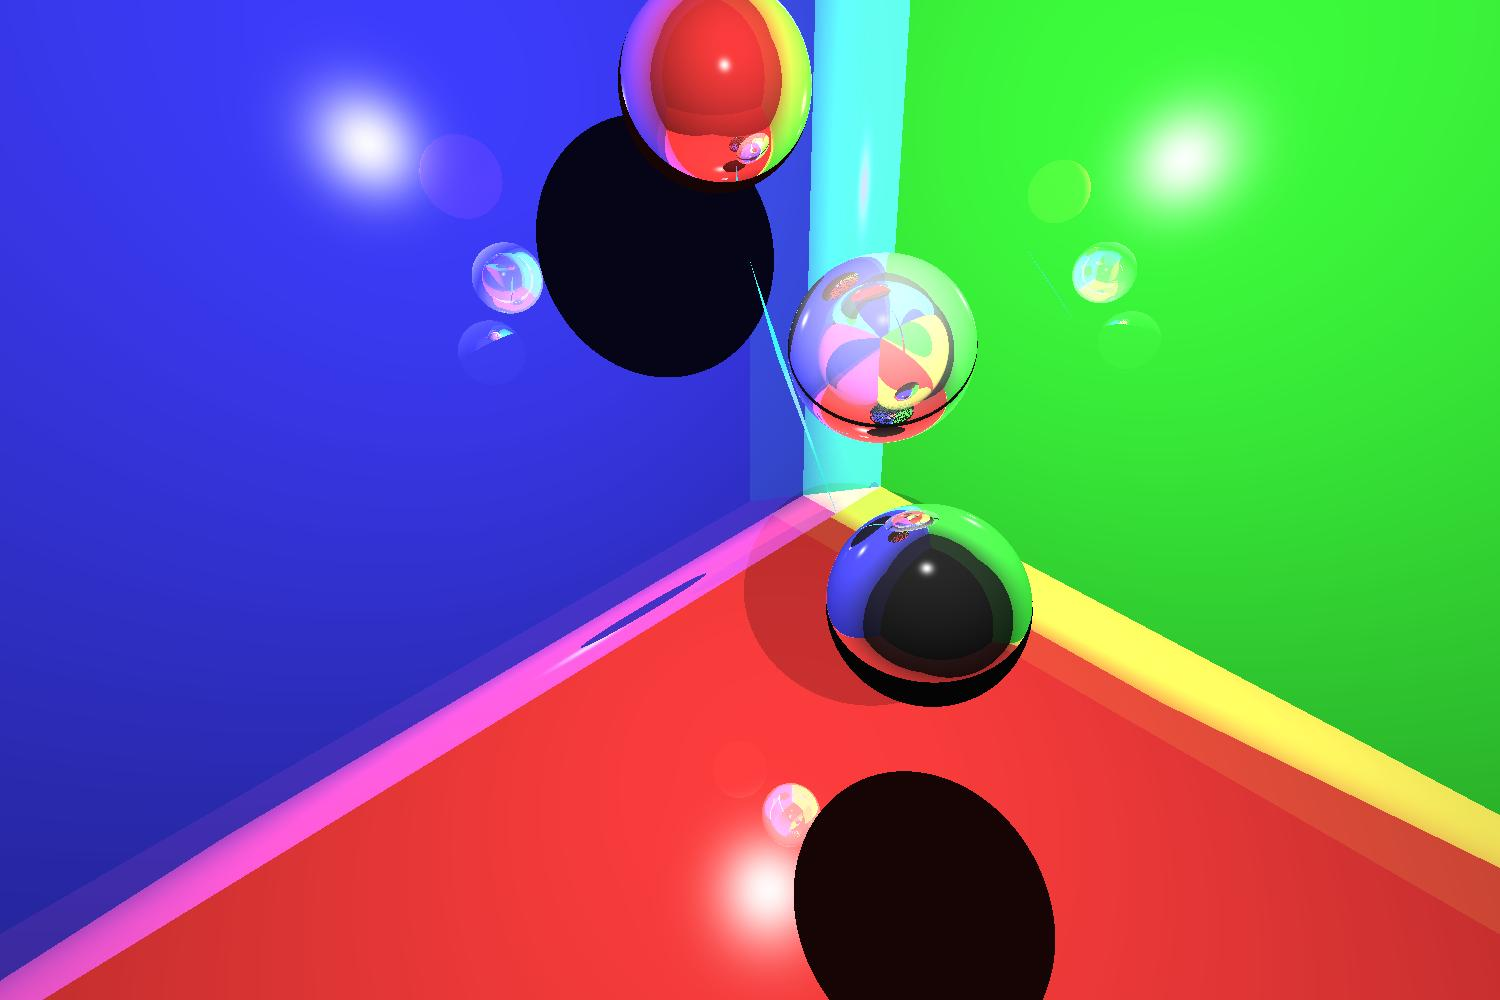
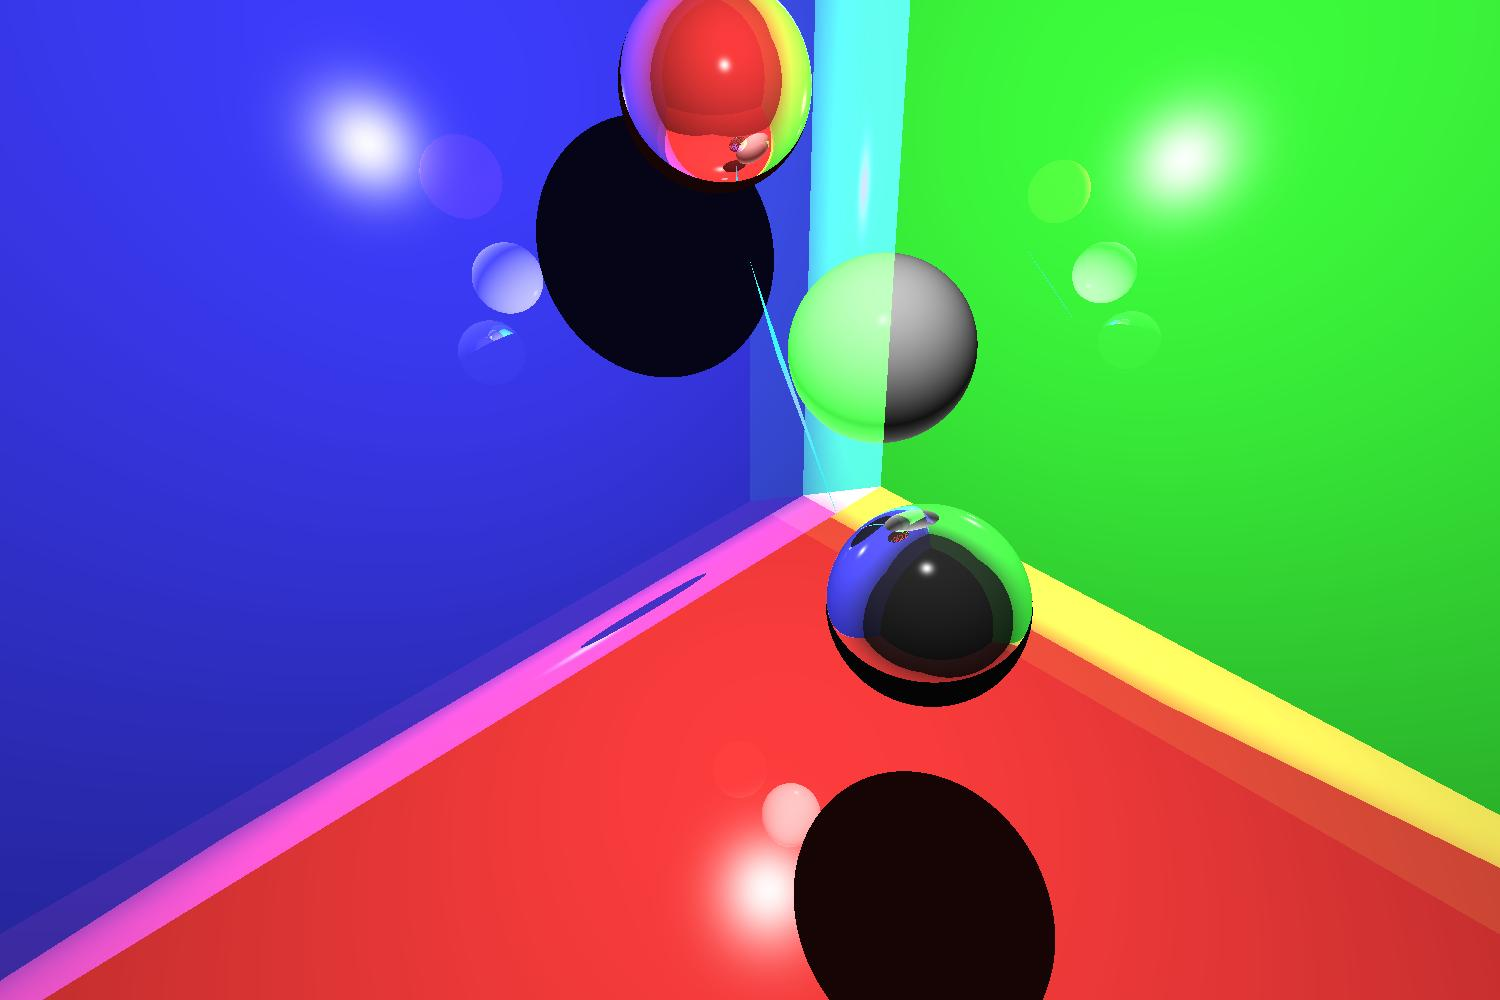
terminado la refraccion

diff --git a/src/trazadorrayos/OperacionesEscena.java b/src/trazadorrayos/OperacionesEscena.java
@@ -79,7 +79,8 @@ public class OperacionesEscena {
 			Point4d punto = Interseccion.intersecta(rayo, figura);
 
 			double reflec = figura.getIndiceReflectividad();
-			double refrac = figura.getIndiceRefraccion();
+                        double refrac = 0;
+                        if(figura.getIndiceRefraccion()!=0) refrac = 1/figura.getIndiceRefraccion();//suponemos que el exterior es 1
 
 			/*
 			 * Ahora se calcula la direccion del angulo refractado y del angulo
@@ -111,20 +112,23 @@ public class OperacionesEscena {
 			// ahora calculas el angulo reflejado
 			// T=(Iref*(normal*Rayo)-Raiz(1-Iref²(1-(normal*rayo)²)))
 			// *normal-Iref*rayo
-			double auxR = refrac
-					* (normal.dot(rayo.getDireccion()))
+                        Vector4d direccionRayo=new Vector4d(rayo.getDireccion());
+                        direccionRayo.negate();
+                       
+			double auxR = (refrac
+					* (normal.dot(direccionRayo)))
 					- Math.sqrt(1
-							- refrac
+							- (refrac
 							* refrac
-							* (1 - normal.dot(rayo.getDireccion())
-									* normal.dot(rayo.getDireccion())));
+							* (1 - (normal.dot(direccionRayo)
+									* normal.dot(direccionRayo)))));
 
-			refractado.x = auxR * normal.x - refrac * rayo.getDireccion().x;
-			refractado.y = auxR * normal.y - refrac * rayo.getDireccion().y;
-			refractado.z = auxR * normal.z - refrac * rayo.getDireccion().z;
-			refractado.w = auxR * normal.w - refrac * rayo.getDireccion().w;
+			refractado.x = auxR * normal.x - refrac * direccionRayo.x;
+			refractado.y = auxR * normal.y - refrac * direccionRayo.y;
+			refractado.z = auxR * normal.z - refrac * direccionRayo.z;
+			refractado.w = 0;
 			refractado.normalize(); 
-
+                        
 			/*
 			 * Ahora tienes el angulo refractado y el angulo reflejado, ahora
 			 * para calcular el color, primero tienes que mirar el color que
@@ -191,13 +195,13 @@ public class OperacionesEscena {
                                     cosenoDif=Math.abs(cosenoDif);
                                     double IpartDifR = figura.kd.getRed()
                                                     * escena.getFoco().getColor().getRed() / 255
-                                                    * cosenoDif;
+                                                    * cosenoDif*TapanObjetosTranslucidos;
                                     double IpartDifG = figura.kd.getGreen()
                                                     * escena.getFoco().getColor().getGreen() / 255
-                                                    * cosenoDif;
+                                                    * cosenoDif*TapanObjetosTranslucidos;
                                     double IpartDifB = figura.kd.getBlue()
                                                     * escena.getFoco().getColor().getBlue() / 255
-                                                    * cosenoDif;
+                                                    * cosenoDif*TapanObjetosTranslucidos;
                                     // especular
                                     rayoAlOjo.normalize();
                                     double aux2 = 2 * normal.dot(rayoAlFoco);
@@ -224,24 +228,24 @@ public class OperacionesEscena {
                                     cosenoEsp = Math.pow(cosenoEsp, 150);
                                     double IpartEspR = figura.ks.getRed()
                                                     * escena.getFoco().getColor().getRed() / 255
-                                                    * cosenoEsp;
+                                                    * cosenoEsp*TapanObjetosTranslucidos;
                                     double IpartEspG = figura.ks.getGreen()
                                                     * escena.getFoco().getColor().getGreen() / 255
-                                                    * cosenoEsp;
+                                                    * cosenoEsp*TapanObjetosTranslucidos;
                                     double IpartEspB = figura.ks.getBlue()
                                                     * escena.getFoco().getColor().getBlue() / 255
-                                                    * cosenoEsp;
+                                                    * cosenoEsp*TapanObjetosTranslucidos;
 
                                     intensidadR += IpartDifR + IpartEspR;
                                     intensidadG += IpartDifG + IpartEspG;
                                     intensidadB += IpartDifB + IpartEspB;
-                                    int red = (int) (intensidadR*TapanObjetosTranslucidos);
-                                    int green = (int) (intensidadG*TapanObjetosTranslucidos);
-                                    int blue = (int) (intensidadB*TapanObjetosTranslucidos);
+                                    int red = (int) (intensidadR);
+                                    int green = (int) (intensidadG);
+                                    int blue = (int) (intensidadB);
 
-                                    int intensidadReflejadaR = (int)(reflec *TapanObjetosTranslucidos* IpartDifR);
-                                    int intensidadReflejadaG = (int)(reflec *TapanObjetosTranslucidos* IpartDifG);
-                                    int intensidadReflejadaB =(int)( reflec *TapanObjetosTranslucidos* IpartDifB);
+                                    int intensidadReflejadaR = (int)(reflec * IpartDifR);
+                                    int intensidadReflejadaG = (int)(reflec * IpartDifG);
+                                    int intensidadReflejadaB =(int)( reflec * IpartDifB);
                                     Color colorRayoReflejado = new Color(
                                                      intensidadReflejadaR, intensidadReflejadaG,
                                                     intensidadReflejadaB);
@@ -249,9 +253,9 @@ public class OperacionesEscena {
                                                     colorRayoReflejado);
 
 
-                                      double intensidadRefractadoR=(1-reflec)*TapanObjetosTranslucidos*escena.getFoco().getColor().getRed();
-                                      double  intensidadRefractadoG=(1-reflec)*TapanObjetosTranslucidos*escena.getFoco().getColor().getGreen();
-                                      double intensidadRefractadoB=(1-reflec)*TapanObjetosTranslucidos*escena.getFoco().getColor().getBlue();
+                                      double intensidadRefractadoR=(1-reflec)*escena.getFoco().getColor().getRed();
+                                      double  intensidadRefractadoG=(1-reflec)*escena.getFoco().getColor().getGreen();
+                                      double intensidadRefractadoB=(1-reflec)*escena.getFoco().getColor().getBlue();
                                       Color colorRayoRefractado=new Color((int)intensidadRefractadoR,
                                       (int)intensidadRefractadoG,(int)intensidadRefractadoB);
                                       Rayo rayoRefractado = new Rayo(refractado, punto, colorRayoRefractado);
@@ -272,10 +276,7 @@ public class OperacionesEscena {
                                           boolean esperarRefraccion=false;
                                           if (figura instanceof Esfera) {
                                               esperarRefraccion=true;
-                                          }
-                                          else{
-                                              int a=0;
-                                          }
+                                          } 
                                           Color colorRefractado = colorDesdeRayo(escena, rayoRefractado,
                                       MaxDepth--, minIntensity, figura,esperarRefraccion);
                                           red += colorRefractado.getRed();
